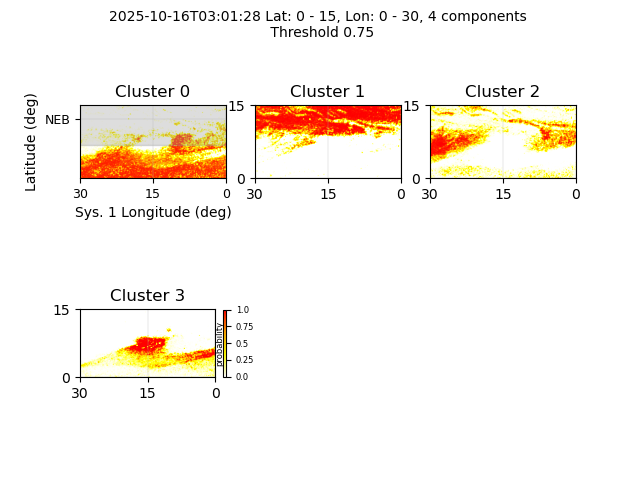
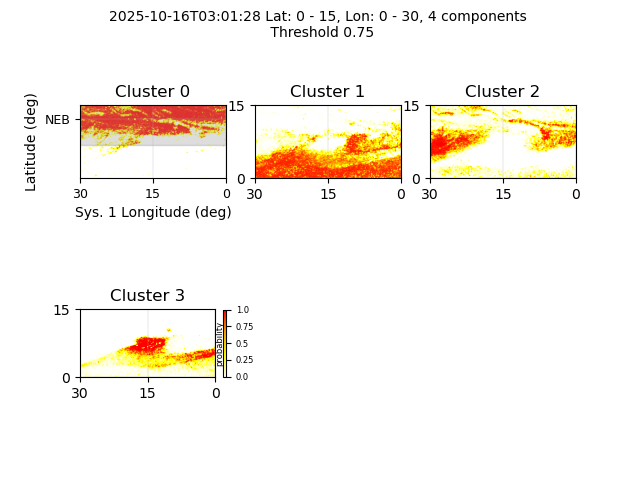
create map of maximum probability

Changed region(s): [[0.125, 0.2188, 0.625, 0.375]]

diff --git a/scripts/processes.py b/scripts/processes.py
@@ -74,14 +74,19 @@ def output_cluster_map_and_plot(date, keywords, param_ranges,
     # creates cluster spatial map and cluster scatter plot
     [input_arr, subset_shape] = pre.get_input_array(keywords, param_ranges, latRng, lngRng, cm_num)
     [pred, probs] = CL.create_clusters(input_arr[:, 0:len(keywords)], cov_type, n_comp, config["soft_clustering"], threshold)
+  
+
+
+
     stats = STAT.get_all_stats(pred, keywords, input_arr[:, len(keywords)], n_comp, latRng, lngRng, cm_num)
-    pred = STAT.reassign_clusters(np.array(pred), np.swapaxes(stats[:, :, 0], 0, 1), np.array(param_ranges))
+    #pred = STAT.reassign_clusters(np.array(pred), np.swapaxes(stats[:, :, 0], 0, 1), np.array(param_ranges))
     PLP.create_plot_figure(keywords, latRng, lngRng, cm_num, n_comp, pred, input_arr, subset_shape, param_ranges, threshold, cov_type, ROI)
 
 
     # cluster probability maps
     indices = input_arr[:, input_arr.shape[1] - 1]
     PP.create_uncertainty_fig(keywords, probs, indices, subset_shape, latRng, lngRng, cm_num, n_comp, threshold)
+    PP.create_max_prob_map(keywords, probs, indices, subset_shape, latRng, lngRng, cm_num, n_comp, threshold)
 
 def output_cluster_map_and_plots(date, keywords, param_ranges, 
                            latRng = [85, 95], lngRng = [230, 240], 
@@ -90,7 +95,7 @@ def output_cluster_map_and_plots(date, keywords, param_ranges,
     [input_arr, subset_shape] = pre.get_input_array(keywords, param_ranges, latRng, lngRng, cm_num)
     [pred, probs] = CL.create_clusters(input_arr[:, 0:len(keywords)], cov_type, n_comp, config["soft_clustering"], threshold)
     stats = STAT.get_all_stats(pred, keywords, input_arr[:, len(keywords)], n_comp, latRng, lngRng, cm_num)
-    pred = STAT.reassign_clusters(np.array(pred), np.swapaxes(stats[:, :, 0], 0, 1), np.array(param_ranges))
+    #pred = STAT.reassign_clusters(np.array(pred), np.swapaxes(stats[:, :, 0], 0, 1), np.array(param_ranges))
     
   
     indices = input_arr[:, input_arr.shape[1] - 1]
@@ -117,7 +122,7 @@ def output_cluster_map(date, keywords, param_ranges,
     [pred, probs] = CL.create_clusters(input_arr[:, 0:len(keywords)], cov_type, n_comp, config["soft_clustering"], threshold)
     
     stats = STAT.get_all_stats(pred, keywords, input_arr[:, len(keywords)], n_comp, latRng, lngRng, cm_num)
-    pred = STAT.reassign_clusters(np.array(pred), np.swapaxes(stats[:, :, 0], 0, 1), np.array(param_ranges))
+    #pred = STAT.reassign_clusters(np.array(pred), np.swapaxes(stats[:, :, 0], 0, 1), np.array(param_ranges))
     PLP.create_cluster_map(keywords, latRng, lngRng, cm_num, n_comp, pred, input_arr, subset_shape, param_ranges, threshold, cov_type, ROI)
 
     # cluster probability maps
@@ -134,7 +139,7 @@ def output_cluster_plot(date, keywords, param_ranges,
     indices = input_arr[:, input_arr.shape[1] - 1]
     [pred, probs] = CL.create_clusters(input_arr[:, 0: len(keywords)], cov_type, n_comp, config["soft_clustering"])
     stats = STAT.get_all_stats(pred, keywords, input_arr[:, len(keywords)], n_comp, latRng, lngRng, cm_num)
-    pred = STAT.reassign_clusters(np.array(pred), np.swapaxes(stats[:, :, 0], 0, 1), np.array(param_ranges))
+    #pred = STAT.reassign_clusters(np.array(pred), np.swapaxes(stats[:, :, 0], 0, 1), np.array(param_ranges))
     
     PLP.create_cluster_plot(keywords, latRng, lngRng, cm_num, n_comp, pred, input_arr, subset_shape, param_ranges, threshold, cov_type, ROI)
 
@@ -154,7 +159,7 @@ def create_map_comparison(date, keywords, param_ranges,
    
     pred = CL.create_clusters(input_arr[:, 0:len(keywords)], cov_type, n_comp, config["soft_clustering"], threshold)
     stats = STAT.get_all_stats(pred, keywords, indices, n_comp, latRng, lngRng, cm_num)
-    pred = STAT.reassign_clusters(np.array(pred), np.swapaxes(stats[:, :, 0], 0, 1), np.array(param_ranges))
+    #pred = STAT.reassign_clusters(np.array(pred), np.swapaxes(stats[:, :, 0], 0, 1), np.array(param_ranges))
    
     PLP.create_map_comp_figure(keywords, latRng, lngRng, cm_num, n_comp, pred, input_arr, subset_shape, param_ranges, threshold, ROI)
 

diff --git a/scripts/posterior_prob.py b/scripts/posterior_prob.py
@@ -50,11 +50,21 @@ def create_uncertainty_fig(keywords, probs, indices, subset_shape, latRng, lngRn
      fig.savefig(output_file_name)
 
 def create_max_prob_map(keywords, probs, indices, subset_shape, latRng, lngRng, cm_num, n_comp, threshold):
-     """
+    """
      Purpose
      --------------
 
      Creates a map with the maximum probability for each pixel 
      """
-     print(probs.shape)
-     print("hello")
+    fig, ax = pl.subplots(1, 1)
+    max_probs = np.max(probs, axis = 1)
+    cmap = LinearSegmentedColormap.from_list("cluster_color", ["white", "yellow", "orange", "red"], N = 256)
+    max_prob_map = MP.create_cluster_arr(indices, subset_shape, max_probs)
+    MP.plot_patch(max_prob_map, latRng, lngRng, cmap, {}, ax, 0, 1, "", cm_num, fig, True, True, "probability")
+    fig.suptitle(PLP.create_plot_title(keywords, latRng, lngRng, n_comp, threshold), fontsize = 10)
+    output_file_name = PLP.create_file_name(keywords, latRng, lngRng, n_comp, "max_prob_map", cm_num, threshold)
+    fig.savefig(output_file_name)
+
+
+   
+    
